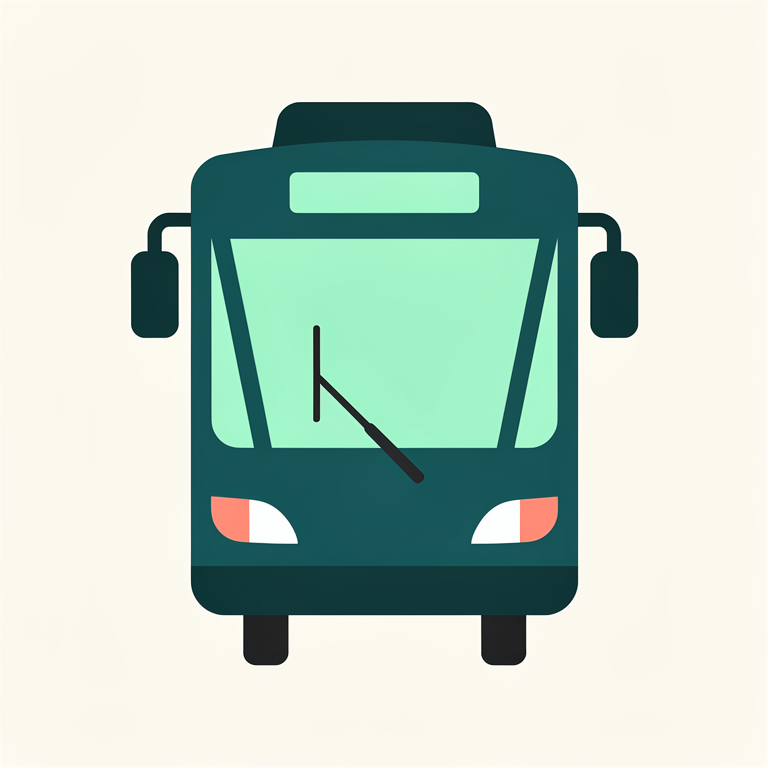
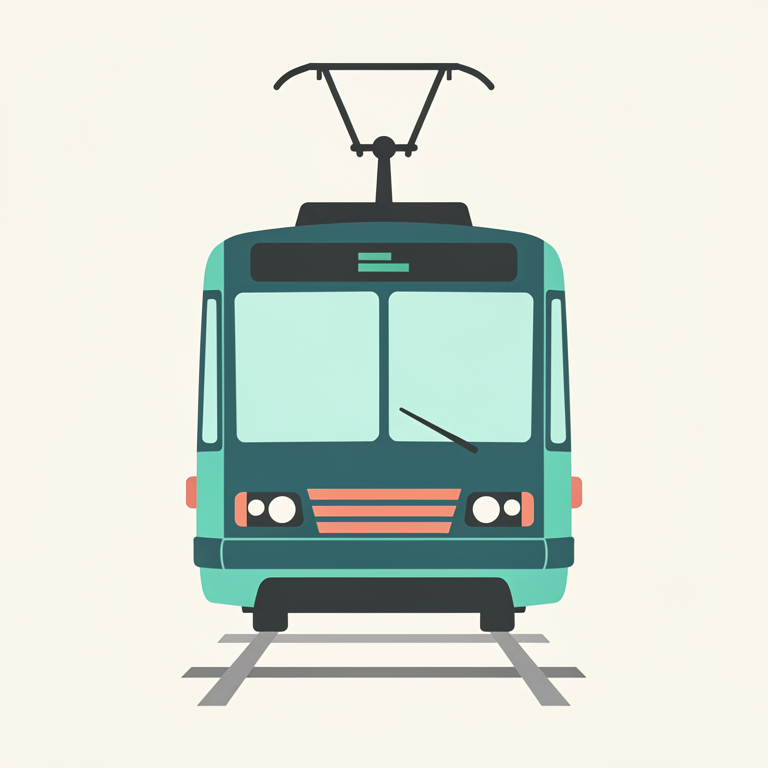
odswiez ikone tramwaju na mapie

diff --git a/apps/web/src/features/demo/components/route-live.tsx b/apps/web/src/features/demo/components/route-live.tsx
@@ -1,0 +1,381 @@
+"use client";
+
+import type { Leg } from "@sawa/shared";
+import { AnimatePresence, motion, useReducedMotion } from "motion/react";
+import { type Ref, useEffect, useRef, useState } from "react";
+import { SPRING } from "../lib/device";
+import { formatDuration } from "../lib/format";
+import type { MockStop } from "../lib/mock-data";
+import { ChevronLeftIcon, PauseIcon, PinIcon, PlayIcon } from "./icons";
+import { Journey } from "./line-badge";
+import { SawaMenuButton } from "./sawa-menu";
+
+/*
+ * Ekran trasy na żywo (wybrany wariant A, propozycje w docs/ui/README.md).
+ * O tym, o czym Sawa mówi, decyduje lokalizacja (T-106), a nie użytkownik. Sawa opowiada jednym
+ * ciągłym strumieniem i sama przechodzi od tematu do tematu, więc nie ma przycisków
+ * „poprzednia/następna”. Jest pauza, a skok do przodu („Opowiedz teraz”) to wyjątek.
+ */
+
+/** Fragment strumienia Sawy przypisany do punktu trasy (temat, o którym wtedy mówiła). */
+export type TranscriptPart = { stopIndex: number; text: string };
+
+export type RouteLiveProps = {
+  durationMin: number;
+  end: { label: string; reached: boolean } | null;
+  legs: Leg[];
+  stops: MockStop[];
+  /** Punkt, przy którym jest użytkownik i o którym Sawa teraz mówi. */
+  activeIndex: number;
+  onBack: () => void;
+  isDesktop: boolean;
+  isPlaying: boolean;
+  /** Ile bieżącego tematu już padło (0–100). */
+  progress: number;
+  storyText: string | null;
+  storyState: "loading" | "ready" | "failed";
+  /** Całe dotychczasowe opowiadanie, ostatni fragment jest na żywo. */
+  transcript: TranscriptPart[];
+  togglePlay: () => void;
+};
+
+/** Za ile następny temat. Dziś z `etaMin`, po T-106 z odległości do punktu. */
+function untilNext(stops: MockStop[], activeIndex: number) {
+  const now = stops[activeIndex];
+  const next = stops[activeIndex + 1];
+  if (!now || !next) return null;
+  const min = Math.max(1, next.etaMin - now.etaMin);
+  return { stop: next, label: `za ok. ${min} min` };
+}
+
+/* ------------------------------------------------------------------ */
+/* Wspólne klocki                                                      */
+/* ------------------------------------------------------------------ */
+
+function BackButton({ onBack, compact }: { onBack: () => void; compact?: boolean }) {
+  return (
+    <button
+      type="button"
+      onClick={onBack}
+      aria-label={compact ? "Zmień plan" : undefined}
+      className={`flex h-10 shrink-0 items-center gap-1 rounded-full bg-tlo-2 text-sm font-bold text-tekst transition-[transform,background-color] hover:bg-mieta-jasna active:scale-[0.96] ${
+        compact ? "w-10 justify-center" : "pl-2.5 pr-3.5"
+      }`}
+    >
+      <ChevronLeftIcon className="size-4" />
+      {!compact && "Zmień plan"}
+    </button>
+  );
+}
+
+function EndPill({ end }: { end: RouteLiveProps["end"] }) {
+  if (!end) return null;
+  return (
+    <p
+      role={end.reached ? undefined : "status"}
+      className={`inline-flex items-center gap-1.5 rounded-full px-3 py-1 text-[13px] font-semibold ${
+        end.reached ? "bg-mieta-jasna text-glebia" : "bg-koral/15 text-tekst"
+      }`}
+    >
+      <PinIcon className="size-4 shrink-0" />
+      {end.label}
+    </p>
+  );
+}
+
+/** Pulsująca kropka „na żywo”; przy pauzie stoi i szarzeje. */
+function LiveDot({ on }: { on: boolean }) {
+  const reduce = useReducedMotion();
+  return (
+    <span className="relative flex size-2.5 shrink-0">
+      {on && !reduce && (
+        <motion.span
+          className="absolute inset-0 rounded-full bg-koral"
+          animate={{ scale: [1, 2.2], opacity: [0.5, 0] }}
+          transition={{ duration: 1.6, repeat: Number.POSITIVE_INFINITY, ease: "easeOut" }}
+        />
+      )}
+      <span
+        className={`relative size-2.5 rounded-full transition-colors ${on ? "bg-koral" : "bg-tekst-3"}`}
+      />
+    </span>
+  );
+}
+
+function PlayButton({
+  isPlaying,
+  onToggle,
+  size = "md",
+}: {
+  isPlaying: boolean;
+  onToggle: () => void;
+  size?: "lg" | "md";
+}) {
+  const big = size === "lg";
+  return (
+    <motion.button
+      type="button"
+      onClick={onToggle}
+      aria-label={isPlaying ? "Wstrzymaj Sawę" : "Wznów Sawę"}
+      whileTap={{ scale: 0.92 }}
+      transition={SPRING}
+      className={`flex shrink-0 items-center justify-center rounded-full bg-glebia text-white transition-colors hover:bg-glebia-ciemna ${
+        big ? "size-14 shadow-[0_6px_16px_rgba(23,112,111,0.3)]" : "size-11"
+      }`}
+    >
+      <AnimatePresence mode="popLayout" initial={false}>
+        <motion.span
+          key={isPlaying ? "pause" : "play"}
+          initial={{ scale: 0.5, opacity: 0 }}
+          animate={{ scale: 1, opacity: 1 }}
+          exit={{ scale: 0.5, opacity: 0 }}
+          transition={{ type: "spring", bounce: 0, duration: 0.25 }}
+        >
+          {isPlaying ? (
+            <PauseIcon className={big ? "size-6" : "size-5"} />
+          ) : (
+            <PlayIcon className={`${big ? "size-6" : "size-5"} translate-x-[1px]`} />
+          )}
+        </motion.span>
+      </AnimatePresence>
+    </motion.button>
+  );
+}
+
+/**
+ * Tekst na żywo: wypowiedziane słowa pełnym kolorem, reszta jaśniej (jak napisy karaoke).
+ * Przy strumieniu tekst rośnie, a granica idzie za głosem.
+ */
+function LiveText({
+  text,
+  progress,
+  state,
+  className = "",
+  edgeRef,
+}: {
+  text: string | null;
+  progress: number;
+  state: RouteLiveProps["storyState"];
+  className?: string;
+  /** Znacznik w miejscu, do którego doszedł głos (do przewijania za nim). */
+  edgeRef?: Ref<HTMLSpanElement>;
+}) {
+  if (state === "loading" || !text) {
+    return (
+      <p className={`animate-pulse text-tekst-3 ${className}`}>Sawa zbiera myśli o tym miejscu…</p>
+    );
+  }
+  if (state === "failed") {
+    return (
+      <p className={`text-tekst-3 ${className}`}>
+        Tu Sawa milczy. Odezwie się przy następnym miejscu.
+      </p>
+    );
+  }
+  const words = text.split(/(\s+)/);
+  const wordCount = words.filter((w) => w.trim()).length;
+  const spoken = Math.round((wordCount * progress) / 100);
+  let seen = 0;
+  let cut = words.length;
+  for (let i = 0; i < words.length; i++) {
+    if (words[i].trim()) seen++;
+    if (seen > spoken) {
+      cut = i;
+      break;
+    }
+  }
+  return (
+    <p aria-live="off" className={className}>
+      <span className="text-tekst transition-colors">{words.slice(0, cut).join("")}</span>
+      <span ref={edgeRef} />
+      <span className="text-tekst-3/70">{words.slice(cut).join("")}</span>
+    </p>
+  );
+}
+
+/** Pasek „do następnego tematu”: napełnia się z bieżącą częścią opowieści. */
+function NextUp({
+  stops,
+  activeIndex,
+  progress,
+  end,
+}: {
+  stops: MockStop[];
+  activeIndex: number;
+  progress: number;
+  end: RouteLiveProps["end"];
+}) {
+  const next = untilNext(stops, activeIndex);
+  if (!next) {
+    return (
+      <div className="flex flex-col items-start gap-2">
+        <p className="text-sm text-tekst-2">To ostatni temat tej przejażdżki.</p>
+        <EndPill end={end} />
+      </div>
+    );
+  }
+  return (
+    <div className="min-w-0 flex-1">
+      <p className="truncate text-sm text-tekst-2">
+        Dalej <span className="font-bold text-tekst">{next.stop.name}</span>
+      </p>
+      <div className="mt-1.5 flex items-center gap-2">
+        <div className="h-1 flex-1 overflow-hidden rounded-full bg-tekst/10">
+          <div
+            className="h-full origin-left rounded-full bg-glebia"
+            style={{ transform: `scaleX(${progress / 100})` }}
+          />
+        </div>
+        <span className="shrink-0 text-xs font-semibold tabular-nums text-tekst-3">
+          {next.label}
+        </span>
+      </div>
+    </div>
+  );
+}
+
+/* ------------------------------------------------------------------ */
+/* Ekran: jeden ciągły zapis tego, co mówi Sawa, jak napisy w radiu   */
+/* ------------------------------------------------------------------ */
+
+export function RouteLive({
+  durationMin,
+  end,
+  legs,
+  stops,
+  activeIndex,
+  onBack,
+  isDesktop,
+  isPlaying,
+  progress,
+  storyText,
+  storyState,
+  transcript,
+  togglePlay,
+}: RouteLiveProps) {
+  const reduce = useReducedMotion();
+  const scrollRef = useRef<HTMLDivElement>(null);
+  const edgeRef = useRef<HTMLSpanElement>(null);
+  const [following, setFollowing] = useState(true);
+  const stop = stops[activeIndex];
+  const past = transcript.filter((part) => part.stopIndex < activeIndex);
+
+  // Zapis jedzie za głosem (granica wypowiedzianych słów na ok. 2/3 wysokości),
+  // dopóki użytkownik sam nie przewinie
+  // biome-ignore lint/correctness/useExhaustiveDependencies: przewijamy przy każdym nowym słowie
+  useEffect(() => {
+    const el = scrollRef.current;
+    const edge = edgeRef.current;
+    if (!el || !following) return;
+    const top = edge
+      ? edge.getBoundingClientRect().top -
+        el.getBoundingClientRect().top +
+        el.scrollTop -
+        el.clientHeight * 0.66
+      : el.scrollHeight;
+    if (Math.abs(el.scrollTop - top) < 4) return;
+    el.scrollTo({ top, behavior: reduce ? "auto" : "smooth" });
+  }, [following, progress, storyText, activeIndex, reduce]);
+
+  // Ręczne przewinięcie (palec, kółko) odpina zapis od głosu; nasze scrollTo tego nie robi
+  function stopFollowing() {
+    setFollowing(false);
+  }
+
+  return (
+    <div className="flex flex-col gap-4">
+      <header className="flex items-center gap-3">
+        <BackButton onBack={onBack} compact />
+        <div className="min-w-0 flex-1">
+          <p className="etykieta flex items-center gap-2">
+            <LiveDot on={isPlaying} />
+            {isPlaying ? "Sawa opowiada" : "Wstrzymane"}
+          </p>
+          <p className="mt-0.5 flex flex-wrap items-center gap-1.5 text-sm text-tekst-2">
+            <span className="font-semibold text-tekst">{formatDuration(durationMin)}</span>
+            <Journey legs={legs} />
+          </p>
+        </div>
+        {isDesktop && <SawaMenuButton variant="inline" />}
+      </header>
+
+      {stop && (
+        <div className="flex items-center gap-2">
+          <span className="etykieta">Teraz</span>
+          <AnimatePresence mode="popLayout" initial={false}>
+            <motion.span
+              key={stop.id}
+              initial={reduce ? { opacity: 0 } : { opacity: 0, y: 8 }}
+              animate={{ opacity: 1, y: 0 }}
+              exit={reduce ? { opacity: 0 } : { opacity: 0, y: -8 }}
+              transition={SPRING}
+              className="inline-flex min-w-0 items-center gap-1.5 rounded-full bg-mieta-jasna py-1 pl-1 pr-3 text-sm font-bold text-glebia-ciemna"
+            >
+              <span className="flex size-6 shrink-0 items-center justify-center rounded-full bg-glebia text-xs font-extrabold text-white">
+                {activeIndex + 1}
+              </span>
+              <span className="truncate">{stop.name}</span>
+            </motion.span>
+          </AnimatePresence>
+        </div>
+      )}
+
+      <div className="relative">
+        <div
+          ref={scrollRef}
+          onTouchMove={stopFollowing}
+          onWheel={stopFollowing}
+          className="h-[max(140px,calc(var(--trasa-widoczne,60dvh)-250px))] touch-pan-y overflow-y-auto overscroll-contain [mask-image:linear-gradient(to_bottom,transparent,black_28px,black_calc(100%-24px),transparent)]"
+        >
+          <div className="pb-[40%] pt-6">
+            {past.map((part) => (
+              <section key={part.stopIndex} className="mb-4">
+                <p className="mb-1 text-xs font-bold text-tekst-3">
+                  {part.stopIndex + 1} · {stops[part.stopIndex]?.name}
+                </p>
+                <p className="text-[15px] leading-relaxed text-tekst-3">{part.text}</p>
+              </section>
+            ))}
+            {stop && (
+              <section>
+                {past.length > 0 && (
+                  <p className="mb-1 text-xs font-bold text-glebia">
+                    {activeIndex + 1} · {stop.name}
+                  </p>
+                )}
+                <LiveText
+                  text={storyText}
+                  progress={progress}
+                  state={storyState}
+                  edgeRef={edgeRef}
+                  className="text-[19px] font-medium leading-[1.5] tracking-[-0.005em]"
+                />
+              </section>
+            )}
+          </div>
+        </div>
+        <AnimatePresence>
+          {!following && (
+            <motion.button
+              type="button"
+              initial={{ opacity: 0, y: 8 }}
+              animate={{ opacity: 1, y: 0 }}
+              exit={{ opacity: 0, y: 8 }}
+              transition={SPRING}
+              onClick={() => setFollowing(true)}
+              className="szklo absolute bottom-2 left-1/2 flex -translate-x-1/2 items-center gap-2 rounded-full px-3.5 py-2 text-[13px] font-bold"
+            >
+              <LiveDot on={isPlaying} />
+              Wróć do Sawy
+            </motion.button>
+          )}
+        </AnimatePresence>
+      </div>
+
+      <div className="flex items-center gap-4">
+        <PlayButton isPlaying={isPlaying} onToggle={togglePlay} size="lg" />
+        <NextUp stops={stops} activeIndex={activeIndex} progress={progress} end={end} />
+      </div>
+    </div>
+  );
+}
